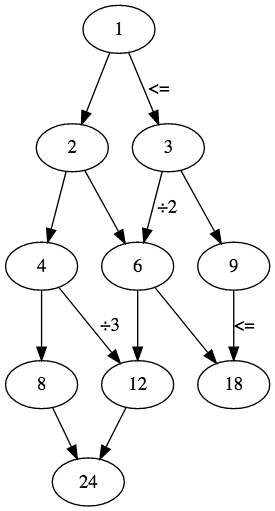
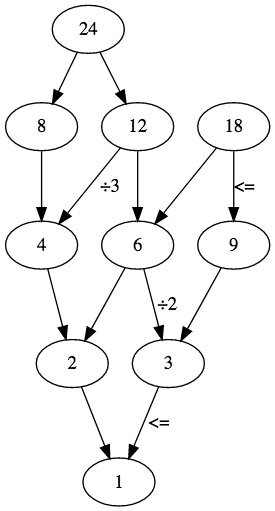
really corrected 105-2

diff --git a/105-Products-and-Coproducts.md b/105-Products-and-Coproducts.md
@@ -35,19 +35,19 @@ Here is an example the poset of a non negative integers ordered by divisibility:
 
 ```dot
 digraph G {
-    1 -> 3 [label="<="]
-    1 -> 2
-    2 -> 6
-    2 -> 4
-    3 -> 6 [label="÷2"]
-    3 -> 9
-    4 -> 8
-    4 -> 12 [label="÷3"]
-    6 -> 12
-    6 -> 18
-    8 -> 24
-    9 -> 18 [label="<="]
-    12 -> 24
+    3 -> 1 [label="<="]
+    2 -> 1
+    6 -> 2
+    4 -> 2
+    6 -> 3 [label="÷2"]
+    9 -> 3
+    8 -> 4
+    12 -> 4 [label="÷3"]
+    12 -> 6
+    18 -> 6
+    24 -> 8
+    18 -> 9 [label="<="]
+    24 -> 12
 }
 ```
 
@@ -59,44 +59,44 @@ Lets add the edges to create a category:
 
 ```dot
 digraph G {
-    1 -> 1 [label="id"]
-    1 -> 2
-    1 -> 3 [label="<="]
-    1 -> 4
-    1 -> 6
-    1 -> 8
-    1 -> 9
-    1 -> 12
-    1 -> 18
-    1 -> 24 [label="÷24"]
+    1 -> 1 
+    2 -> 1 [label="<="]
     2 -> 2 [label="<="]
-    2 -> 4
-    2 -> 6
-    2 -> 8
-    2 -> 12
-    2 -> 18
-    2 -> 24
+    3 -> 1
     3 -> 3 [label="÷1"]
-    3 -> 6 [label="÷2"]
-    3 -> 9
-    3 -> 12
-    3 -> 18
-    3 -> 24 [label="<="]
+    4 -> 1
+    4 -> 2
     4 -> 4
-    4 -> 8 [label="<="]
-    4 -> 12 [label="÷3"]
-    4 -> 24
+    6 -> 1
+    6 -> 2
+    6 -> 3 [label="÷2"]    
     6 -> 6
-    6 -> 12
-    6 -> 18 [label="<="]
-    6 -> 24
+    8 -> 1
+    8 -> 2
+    8 -> 4 [label="<="]
     8 -> 8
-    8 -> 24 [label="<="]
+    9 -> 1
+    9 -> 3
     9 -> 9
-    9 -> 18 [label="<="]
-    12 -> 12
-    12 -> 24
+    12 -> 1
+    12 -> 2
+    12 -> 3
+    12 -> 4 [label="÷3"]
+    12 -> 6
+    12 -> 12 [label="id"]
+    18 -> 1
+    18 -> 2
+    18 -> 3
+    18 -> 6 [label="<="]
+    18 -> 9 [label="<="]
     18 -> 18
+    24 -> 1
+    24 -> 2
+    24 -> 3 [label="<="]
+    24 -> 4
+    24 -> 6
+    24 -> 8 [label="<="]
+    24 -> 12
     24 -> 24
 }
 ```
@@ -112,15 +112,15 @@ The definition of a product as found in the chapter:
 If a and b are objects in the poset and there is a object c with two relations:
 
 ```
-p :: c <= a
-q :: c <= b
+p :: a <= c
+q :: b <= c
 ```
 
 such that for any other object c' equipped with two relations:
 
 ```
-p' :: c' <= a
-q' :: c' <= b
+p' :: a <= c'
+q' :: b <= c'
 ```
 
 there is a unique relation from c' to c that factorizes those relations:
@@ -144,13 +144,13 @@ q' => q & m
 
 and if we then substitute we get:
 ```
-c' <= a => c <= a & c' <= c
-c' <= b => c <= b & c' <= c
+a <= c' => a <= c & c <= c'
+b <= c'=> b <= c & c <= c'
 ```
 
 which means `m` is:
 ```
-c' <= c
+c <= c'
 ```
 
 ```dot
@@ -165,14 +165,15 @@ digraph G {
 
 ![A poset product](https://rawgit.com/awalterschulze/category-theory-for-programmers-challenges/master/105-2-3.png "A poset product")
 
-This means that the product of a poset is the greatest common denominator value `c = gcd(a,b)`, 
-because `c` has to be the biggest number `c' <= c` that is smaller than or equal to and can divide `a` and `b`.
+This means that the product of a poset is the product or least common multiple value `c = lcm(a,b)`, 
+because `c` has to be the smallest number `c <= c'` that is bigger than or equal to and can divided by both `a` and `b`.
 
 For example: the product of:
 
-  - `8` and `12` is `4` 
-  - `18` and `8` is `2` 
-  - `8` and `4` is `4`
+  - `8` and `12` is `24` 
+  - `18` and `8` is nothing 
+  - `8` and `4` is `8`
+  - `3` and `2` is `6`
 
 in the poset category of a non negative integers ordered by divisibility.
 

diff --git a/Readme.md b/Readme.md
@@ -21,6 +21,7 @@ This was done as part of a reading group in Amsterdam: https://www.meetup.com/fp
   - [2017-12-12](https://www.meetup.com/fp-ams/events/244922609/)
   - [2018-01-09](https://www.meetup.com/fp-ams/events/245879208/)
   - [2018-02-14](https://www.meetup.com/fp-ams/events/246865418/)
+  - [2018-03-14](https://www.meetup.com/fp-ams/events/247907128/)
 
 ### Slack
 
